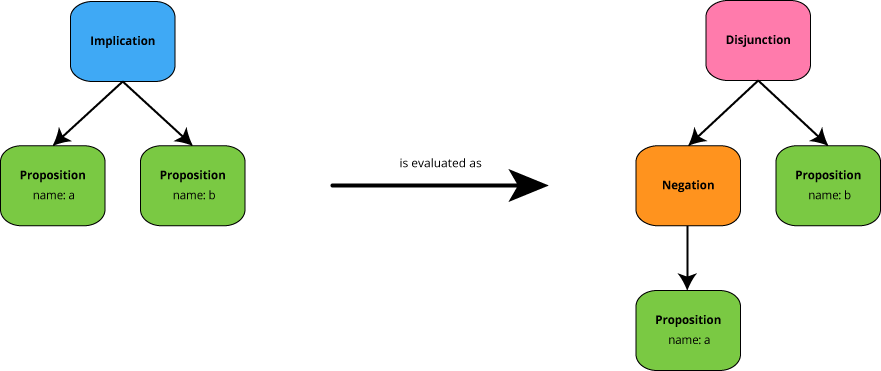
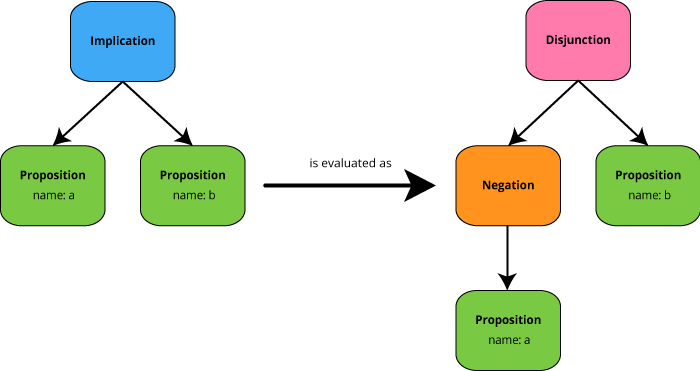
Updated the transformations image, centered images and explained how we determine the truth value.

diff --git a/code/front/index.html b/code/front/index.html
@@ -187,6 +187,7 @@
                             <td></td>
                             <td></td>
                         </tr>
+                        <caption>The operators defined for the Epistemic Logic Playground, their counterparts in OOPS and the languages in which they can be used.</caption>
                     </table>
 
                     <p>
@@ -199,8 +200,8 @@
                         </p>
 
                         <figure>
-                            <object data="./img/tokenization.svg" type="image/svg+xml" align="middle">
-                                <img src="./img/tokenization.png" />
+                            <object class="center-block" data="./img/tokenization.svg" type="image/svg+xml" align="middle">
+                            <img class="center-block" src="./img/tokenization.png" />
                             </object>
                             <figcaption>
                                 Tokenization of formula \eqref{eq:exampleFormula}.
@@ -263,9 +264,8 @@
                         When converting the JSON representation to our own representation we check the model for inconsistencies. We check for example that the model has at least one state, or that it all relations in the model are between defined states.
                     </p>                    
                     <p>
-                        The Epistemic Logic Playground supports four classes of Kripke models, namely:
+                        Apart from the 'normal' Kripke models the Epistemic Logic Playground supports three classes of Kripke models, namely:
                             <ul>
-                                <li>$\mathcal{K}$: the class of all Kripke models without specific properties.</li>
                                 <li>$\mathcal{T}$: the class of all reflexive Kripke models.</li>
                                 <li>$\mathcal{S4}$: the class of all reflexive-transitive Kripke models.</li>
                                 <li>$\mathcal{S5}$: the class of all reflexive-transitive-symmetric Kripke models.</li>
@@ -277,32 +277,49 @@
                     </p>
 
                 <h3><a name="checker">Checker</a></h3>
+                    <p>
+                    Given some model, state and formula we need to determine if that formula holds or does not hold. Furthermore we also need to generate some explanation as to how we arrived at the found truth value. In the section  <a href="#trueOrFalse">'True or False'</a> we discuss how we determine if some formula is true or false in some model in some state. The section <a href="#motivation">'Motivation'</a> explains how we generate the motivation for that answer.
+                    </p>
 
-                    <h4>True or False?</h4>
+                    <h4 name="trueOrFalse">True or False?</h4>
                         <p>
-                            Given some model, state and formula we need to determine if that formula holds or does not hold. This process starts at the root of the expression tree, the <span class="tt">Common</span> node in the presented expression tree. We then determine in which state(s) the child of this node, the subtree with <span class="tt">Knowledge</span> should hold. This recursive process halts if we arrive at a <span>Proposition</span> node, in which case the valuation of that proposition in the current state is requested from the model. 
+                            We determine if some formula holds in some state in some model using depth first search. This is best explained with two examples. The first example only uses propositional operators, which means that we do not have to concern ourselves with different states. 
                         </p>
-
+                        <!-- Voorbeeld 1 -->
                         <p>
-                            Each node is evaluated lazily, for example if the left handed side of a disjunction is evaluated as true we do not evaluate the right handed side, since it does not matter if that disjunct is true or false.
+                            Imagine we want to determine if it is the case that 
+                            \begin{equation}
+                            \label{eq:example2}
+                            (\model, s) \models \lnot (a \land b).
+                            \end{equation}
+                            The root node of the expression tree representing this formula is a <span class="tt">Negation</span> node. The truth definition of this node states that it is true if its child ($a \land b$) is false. Consequently we need to evaluate the child of the <span class="tt">Negation</span> node, i.e. the sub tree with the <span class="tt">Conjunction</span> node as its root. According to the truth definition of this node, it only holds if both its left-hand side, LHS, and right-hand side, RHS, hold. Since we want lazy evaluation we do not evaluate the RHS if we do not need to, i.e. we only evaluate it if the LHS holds. The LHS of the <span class="tt">Conjunction</span> node is a <span class="tt">Proposition</span> node, thus we ask the model if the proposition $a$ holds in state $s$. If $(\model, s) \models a$ we evaluate the RHS of the <span class="tt">Conjunction</span> node and return the <span class="tt">and</span> of the evaluation of $a$ and the evaluation of $b$. If $(\model, s) \not\models a$ we know that $(\model, s) \not\models a \land b$ and thus we return <span class="tt">false</span>. The <span class="tt">Negation</span> node returns the negation of the result of the <span class="tt">Conjunction</span> node. 
                         </p>
-
+                        <!-- Voorbeeld 2 -->
                         <p>
-                            Although most types of nodes have a truth condition, i.e. the <span class="tt">Negation</span> node 'knows' that it is true if its child is not true, some are evaluated differently. These nodes are 'rewritten' before evaluation, e.g. the <span class="tt">implication</span> node is transformed to a disjunction of implication nodes, see the image below. 
-
+                            In the previous example we have shown how the checker handles propositional formulas. When evaluating epistemic formulas, 
+                            \begin{equation}
+                                \label{eq:example3}
+                                (\model, s) \models K_i a.
+                            \end{equation}
+                            for example, we need to consider other states as well. To evaluate \eqref{eq:example3} we first determine in which states $t$ $(\model, t) \models a$ should hold, we then evaluate the child of the <span class="tt">Knowledge</span> node, the proposition $a$ in this case, in those states. If for some state $t$ $(\model, t) \not\models a$ the evaluation stops and the evaluation of \eqref{eq:example3} is set to false. This ensures that evaluation is lazy and that we do not do unnecessary evaluations.
+                        </p>
+                        <!--  Herschrijven -->
+                        <p>
+                            Although most types of nodes have a truth condition, i.e. the <span class="tt">Negation</span> node 'knows' that it is true if its child is not true, some nodes are evaluated differently. These nodes are 'rewritten' before evaluation, e.g. the <span class="tt">implication</span> node is transformed according to the equivalence $\phi \to \psi \equiv (\lnot \phi) \lor \psi$. Instead of evaluating the tree with the <span class="tt">Implication</span> as root, we transform it to a tree with a <span class="tt">Disjunction</span> node as root and evaluate that tree. 
                             <figure>
-                                <object data="./img/transformations.svg" type="image/svg+xml">
-                                    <img src="./img/transformations.png" />
+                                <object class="center-block" data="./img/transformations.svg" type="image/svg+xml">
+                                    <img class="center-block" src="./img/transformations.png" />
                                 </object>
                                 <figcaption>
-                                    An expression tree representing an implication is transformed to an expression tree with a disjunction as the root node. 
+                                    An expression tree representing an implication that is transformed to an expression tree with a disjunction as the root node. 
                                 </figcaption>
                             </figure>                            
-                            The equivalence relation is evaluated as a conjunction of implications using the fact that $\phi \leftrightarrow \psi \equiv (\phi \to \psi) \land (\psi \to \phi)$. The operator $\text{M}_i \phi$ is evaluated as $\lnot K_i \lnot \phi$. 
+                            Other relations that are evaluated using an equivalent formulation are the bi-implication and the operator $\text{M}_i$, the first is evaluated according to the equivalence 
+                            $\phi \leftrightarrow \psi \equiv (\phi \to \psi) \land (\psi \to \phi)$, the second is evaluated as $\lnot K_i \lnot \phi$.
                         </p>
 
-                    <h4>Motivation</h4>
-                        <p>Explaini how the motivation tree is generated and give an example given some model and the formula above.</p>
+                    <h4 name="motivation">Motivation</h4>
+                        <!-- <p>Explaini how the motivation tree is generated and give an example given some model and the formula above.</p> -->
 
 
             <h2><a name="visualisation">Visualisation</a></h2>

diff --git a/code/front/css/ours.css b/code/front/css/ours.css
@@ -3,9 +3,15 @@ figure.float-right {
 	margin: 10px 10px 10px 0;
 }
 
+.float-center {
+	margin: 0 auto;
+}
+
 figcaption{
-	margin-bottom: 15px;
-	font-style:italic;
+	padding-top: 8px;
+	padding-bottom: 8px;
+	color: #777;
+	text-align: left;
 }
 
 .tt {
